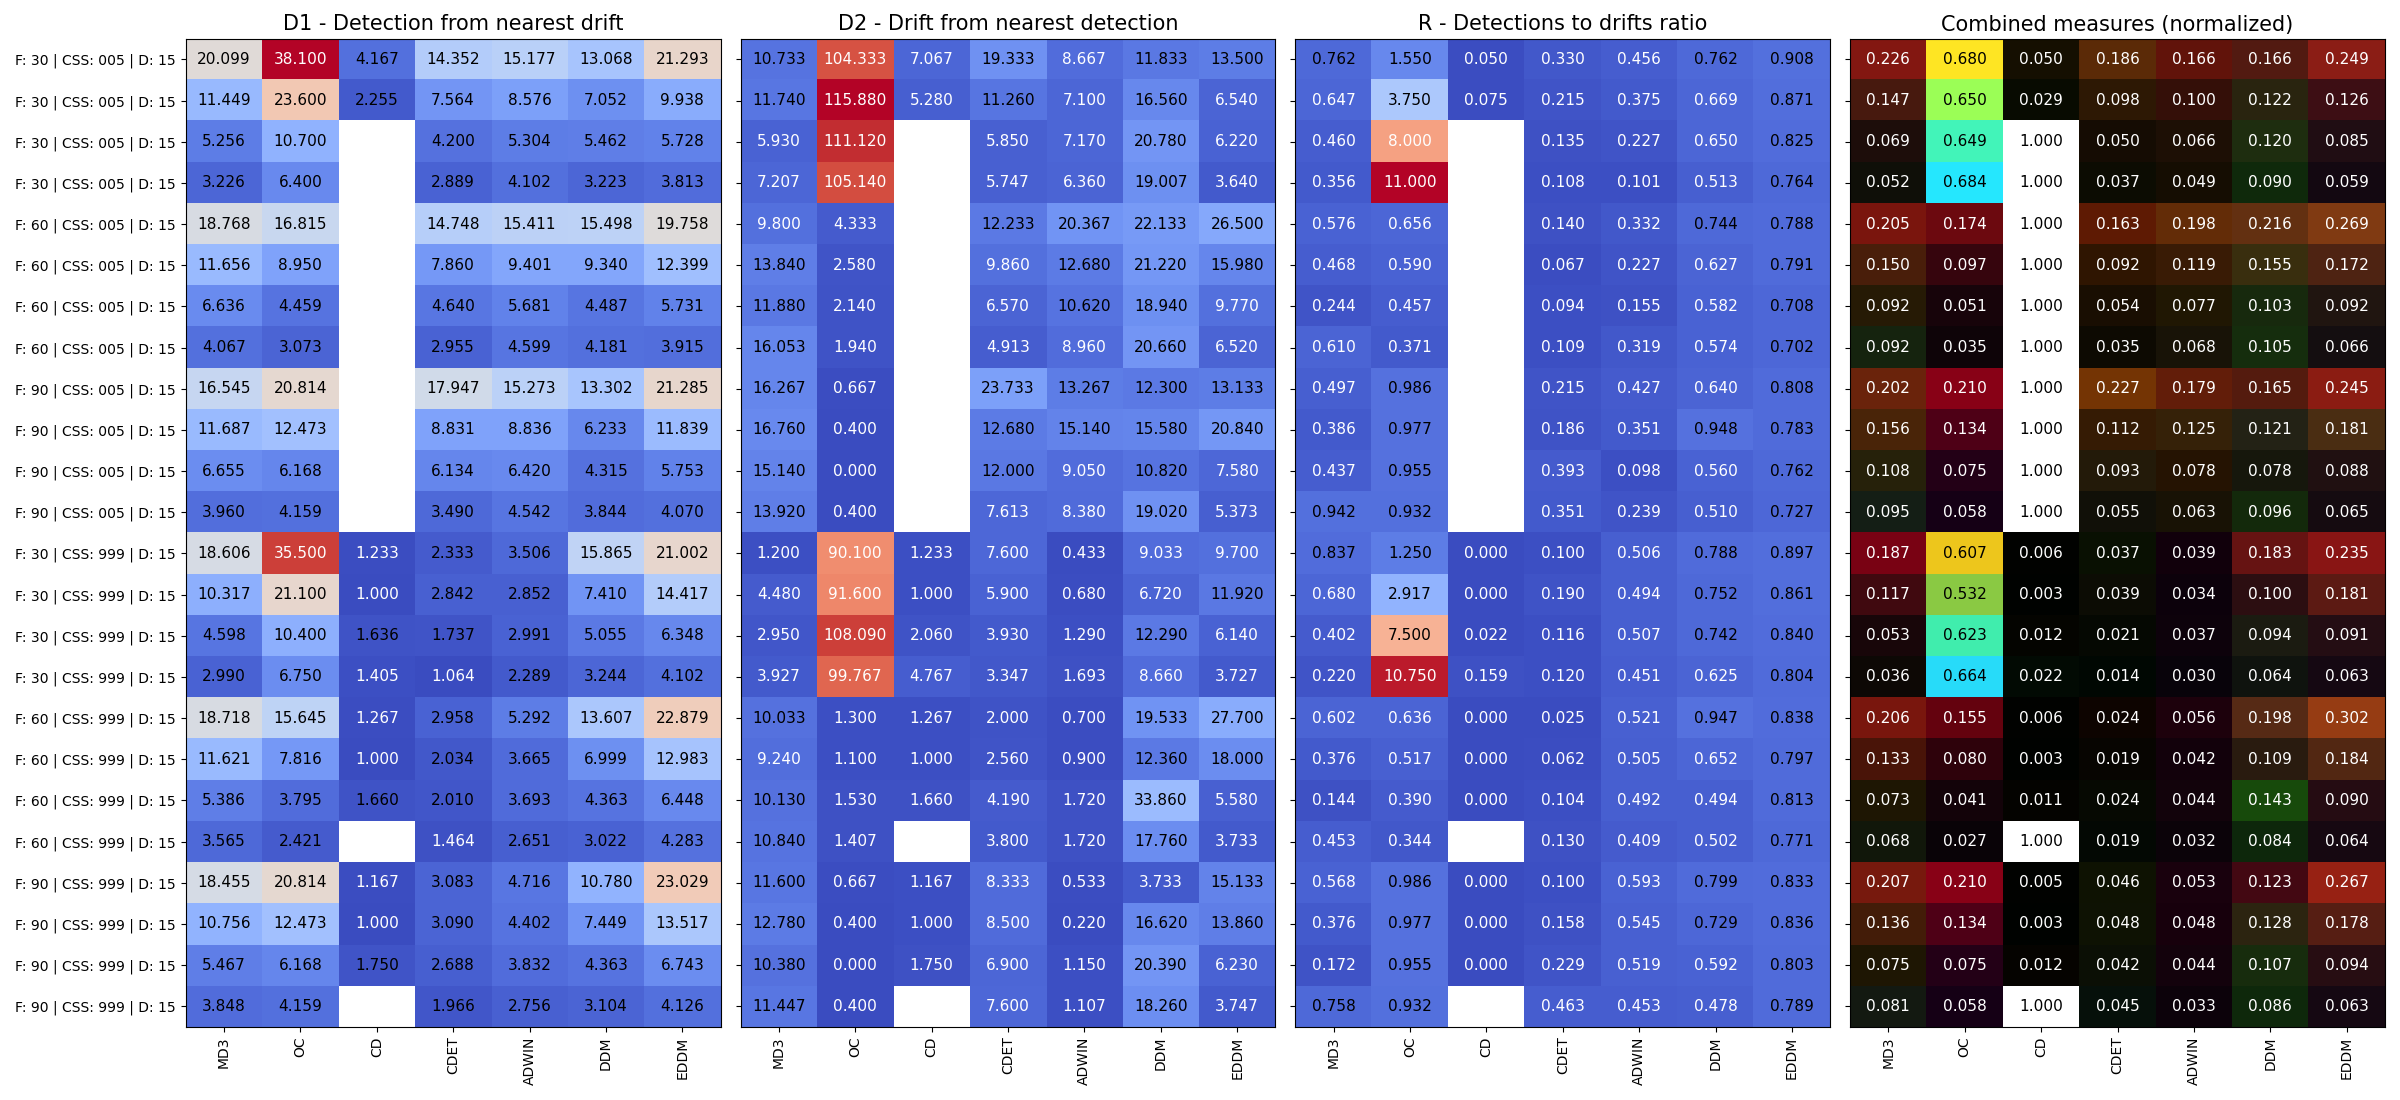
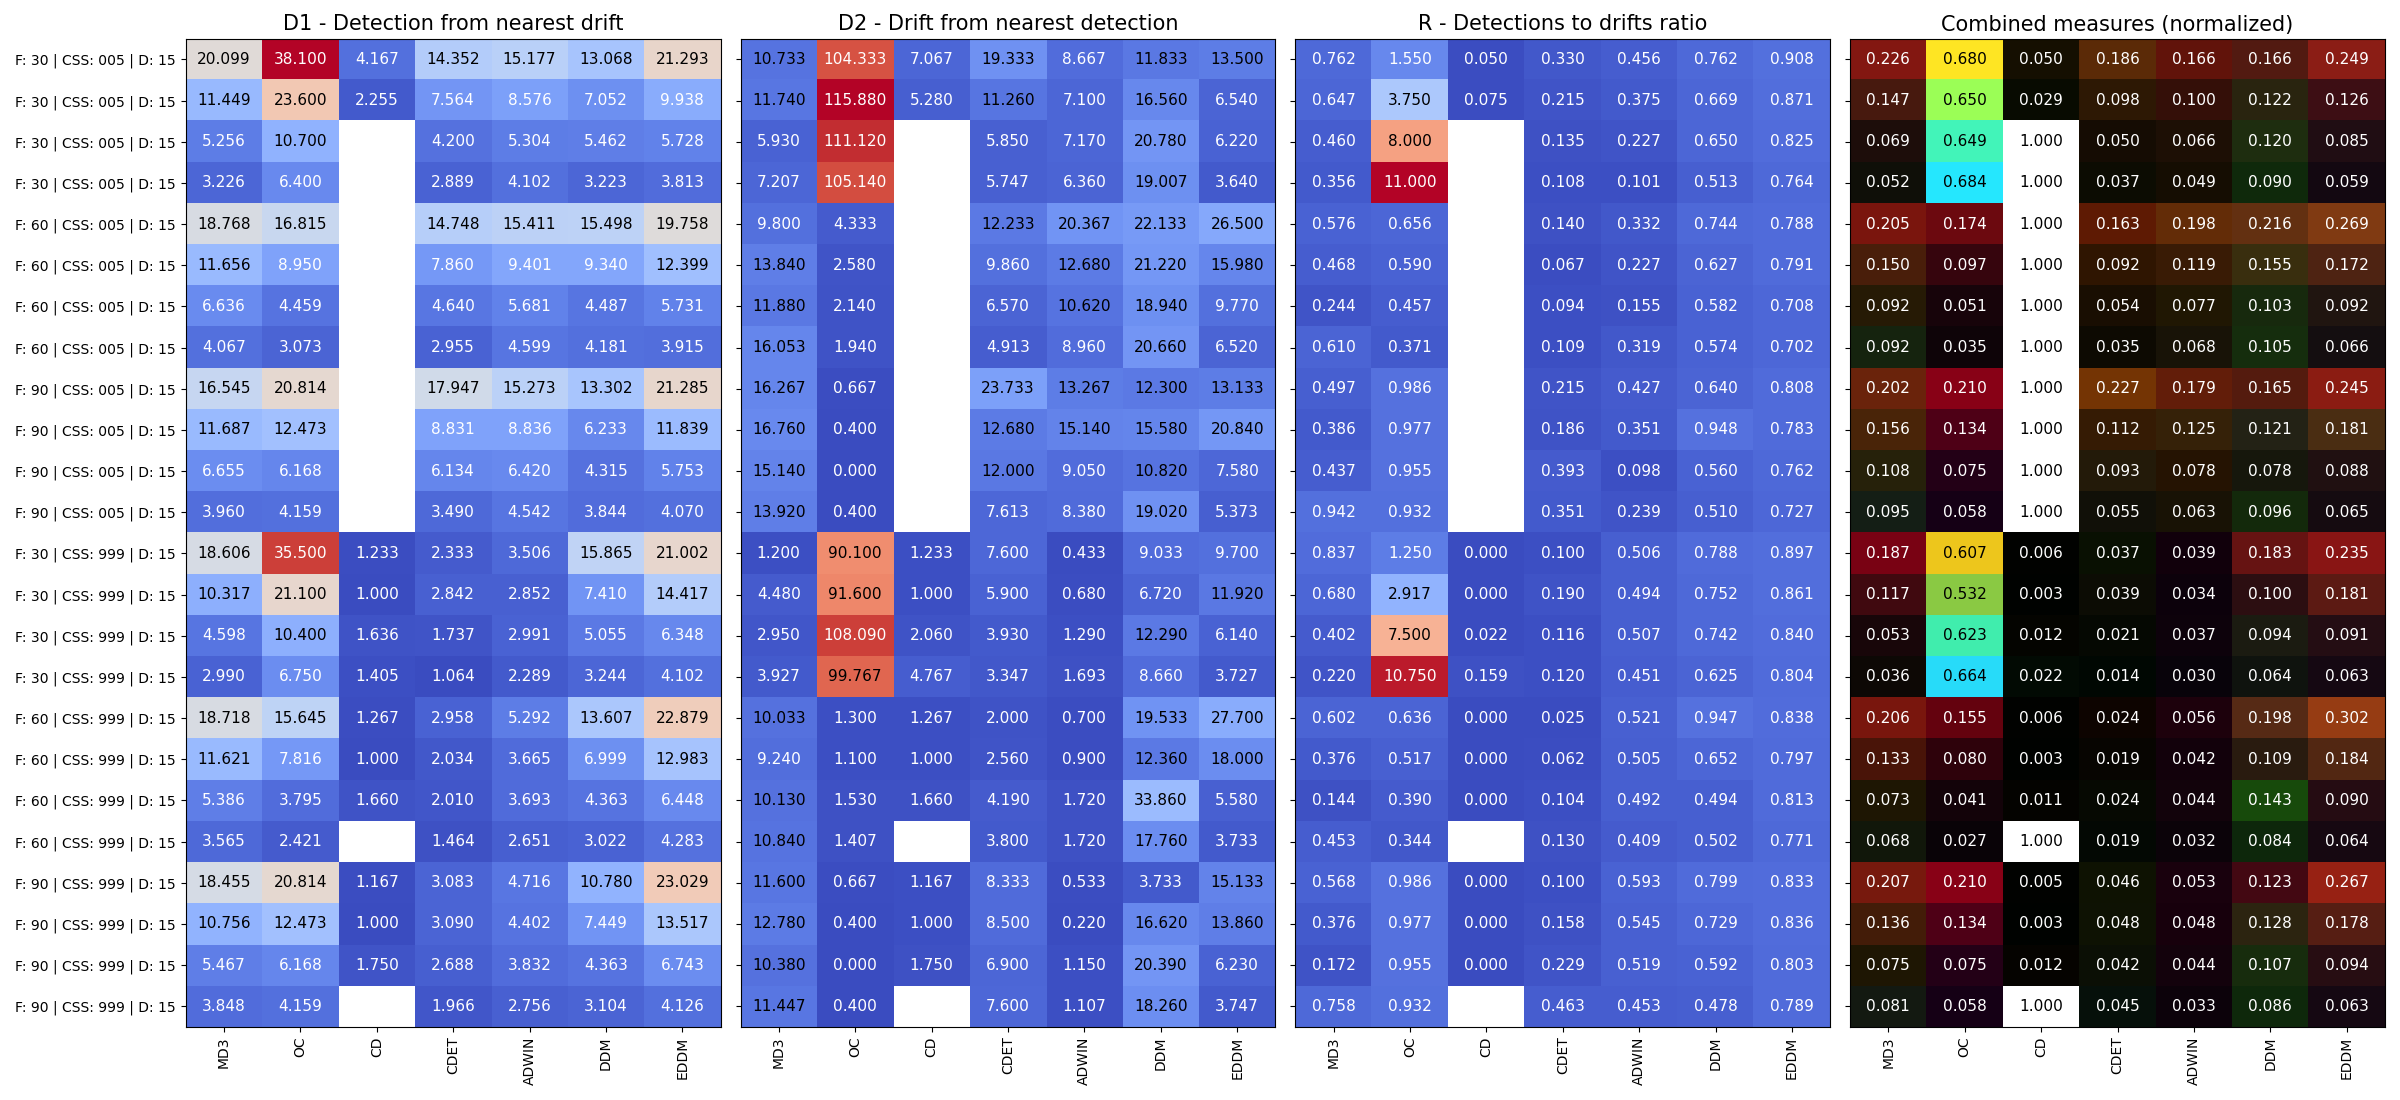
cols

Changed region(s): [[0.3438, 0.4945, 0.375, 0.5564]]

diff --git a/analyze_compare_more.py b/analyze_compare_more.py
@@ -80,10 +80,16 @@ for i in range(3):
                 ax[i].text(_b, _a, "%.3f" % (
                     mean_results[:,:,i][_a, _b]
                     ) , va='center', ha='center', 
-                        c='white' if mean_results[:,:,i][_a, _b] > 0.7*np.nanmax(mean_results[:,:,i]) 
-                        or mean_results[:,:,i][_a, _b] < 1.5*np.nanmin(mean_results[:,:,i]) 
-                        or (mean_results[:,:,i][_a, _b] < 0.7  and i==2)
-                        or (mean_results[:,:,i][_a, _b] < 10  and i==1)
+                        c='white' 
+                        if (
+                        i==0 and 
+                          (mean_results[:,:,i][_a, _b] > 30 or mean_results[:,:,i][_a, _b] < 10))
+                        or (
+                        i==1 and 
+                          (mean_results[:,:,i][_a, _b] > 100 or mean_results[:,:,i][_a, _b] < 10))
+                        or (
+                        i==2 and
+                          (mean_results[:,:,i][_a, _b] > 10 or mean_results[:,:,i][_a, _b] < 1.7))
                         else 'black', 
                         fontsize=11)
 

diff --git a/analyze_compare_more_nans.py b/analyze_compare_more_nans.py
@@ -80,10 +80,16 @@ for i in range(3):
                 ax[i].text(_b, _a, "%.3f" % (
                     mean_results[:,:,i][_a, _b]
                     ) , va='center', ha='center', 
-                        c='white' if mean_results[:,:,i][_a, _b] > 0.7*np.nanmax(mean_results[:,:,i]) 
-                        or mean_results[:,:,i][_a, _b] < 1.5*np.nanmin(mean_results[:,:,i]) 
-                        or (mean_results[:,:,i][_a, _b] < 0.7  and i==2)
-                        or (mean_results[:,:,i][_a, _b] < 10  and i==1)
+                        c='white' 
+                        if (
+                        i==0 and 
+                          (mean_results[:,:,i][_a, _b] > 30 or mean_results[:,:,i][_a, _b] < 10))
+                        or (
+                        i==1 and 
+                          (mean_results[:,:,i][_a, _b] > 100 or mean_results[:,:,i][_a, _b] < 10))
+                        or (
+                        i==2 and
+                          (mean_results[:,:,i][_a, _b] > 10 or mean_results[:,:,i][_a, _b] < 1.7))
                         else 'black', 
                         fontsize=11)
 
